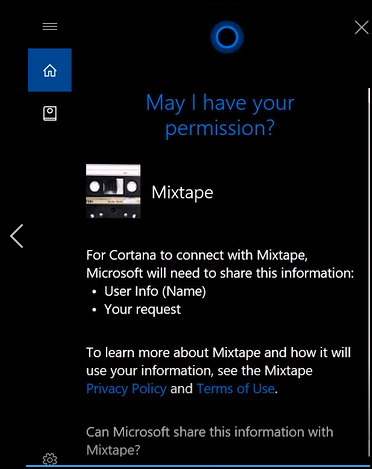
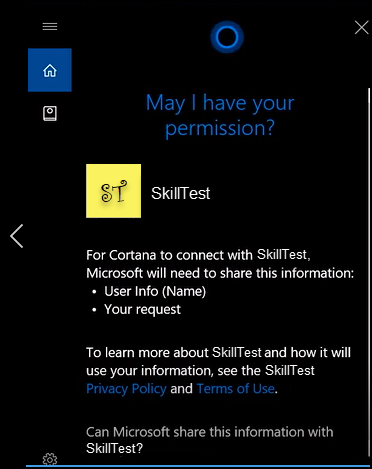
updated screenshot and text

diff --git a/docs/skills/mva52-using-profile-data.md b/docs/skills/mva52-using-profile-data.md
@@ -10,11 +10,11 @@ keywords: cortana
 
 # Using profile data in your Cortana skill
 
-As you learned in [Understanding Cortana's user profile data](./mva51-profile-data.md), Cortana's user profile contains a variety of information that you can view and use in your Cortana skill with the user's consent. In this module, you'll learn how to customize the **Mixtape** skill developed in previous modules to include profile data.
+As you learned in [Understanding Cortana's user profile data](./mva51-profile-data.md), Cortana's user profile contains a variety of information that you can view and use in your Cortana skill with the user's consent. In this module, you'll learn how to customize <!-- the **SkillTest** -->your skill <!-- developed in previous modules  -->to include profile data.
 
 For more information about user profile and contextual information, see [Get the user's profile and contextual information](./get-user-profile-context.md). 
 
-For reference information on the user profile entities you can use in code when you are developing your Cortana skill, see [Cortana user profile and contextual information reference](./user-profile-contextual-info.md).
+For reference information on the user profile entities you can use in code when you are developing your Cortana skill, see the [Cortana user profile and contextual information reference](./user-profile-contextual-info.md).
 
 ## Step 1 - Configure your skill to request user profile data
 
@@ -34,9 +34,12 @@ Select **Publish to self**. In the **User data** box, specify the user profile d
 
 ## Step 2 - Revise your skill to use profile data
 
-Now that you configured your Cortana skill to request user profile data, you can use that data to customize the skill. For example, you can personalize the greeting in the Mixtape skill to include the user's name by revising the skill's **MixtapeIntent** method as follows:
+Now that you've configured your Cortana skill to request user profile data, you can use that data to customize the skill. For example, you can personalize a greeting in <!-- the SkillTest --> your skill to include the user's name.
 
-        public async Task MixtapeIntent(IDialogContext context, LuisResult result)
+This C# code shows an example of customizing a greeting, by updating `response.Text` for a skill named SkillTest.
+
+```csharp
+        public async Task SkillTestIntent(IDialogContext context, LuisResult result)
         {
             var userInfo = ((Activity)context.Activity).Entities.FirstOrDefault(e => e.Type.Equals("UserInfo"));
             string userName;
@@ -44,15 +47,15 @@ Now that you configured your Cortana skill to request user profile data, you can
                 userName = userInfo.Properties["userName"]["GivenName"].ToString();
             else
                 userName = "Stranger";
-            
-            var response = context.MakeMessage();
-            response.Text = "Welcome to Mixtape, " + userName + "! Let's find a song to play.";
 
-            var ssml = @"<speak version=""1.0"" xmlns = ""https://www.w3.org/2001/10/synthesis"" xml:lang = ""en-US""> 
+            var response = context.MakeMessage();
+            response.Text = "Welcome to SkillTest, " + userName + "! Let's find a song to play.";
+
+            var ssml = @"<speak version=""1.0"" xmlns = ""https://www.w3.org/2001/10/synthesis"" xml:lang = ""en-US"">
                 <prosody rate=""fast"">
-                Welcome to Mixtape" + userName + @"! 
+                Welcome to SkillTest" + userName + @"!
                 <audio src=""https://myaudio/tada.mp3>""/>
-                Let's find a song to play. 
+                Let's find a song to play.
                 </prosody>
             </speak>";
 
@@ -60,19 +63,20 @@ Now that you configured your Cortana skill to request user profile data, you can
             await context.PostAsync(response);
             context.Wait(MessageReceived);
         }
+```
 
-The code adds the user's name from the **UserInfo** profile data to the Mixtape greeting.
+The code adds the user's name from the `UserInfo` profile data to the SkillTest greeting.
 
 ## Step 3 - Test the revised skill
 
 Before you can test the revised skill, you must republish it. If you are working with the Microsoft Azure App Service Editor or in Visual Studio, follow the redeployment steps in [Create your first Cortana skill](./mva22-hello-world.md) or [Building conversations](./mva32-building-conversations.md).
 
-To test your revised skill, direct Cortana to invoke the Mixtape skill using an invocation phrase related to the **Mixtape** intent. For example:
+To test your revised skill, direct Cortana to invoke the SkillTest skill using an invocation phrase related to the **SkillTest** intent. For example:
 
-*Ask Mixtape to make me a new playlist.*
+    >**User:** Ask SkillTest to make me a new playlist.
 
 Since you have configured Cortana to request user profile data, Cortana asks your consent before launching the skill. Cortana will not use information from the user profile without explicit consent.
 
 ![Ask Consent](../media/images/mva52_ask_consent.png)
 
-If you give your consent, Cortana responds by launching the Mixtape skill with a personalized greeting, using the name specified in the user profile.
+If you give your consent, Cortana responds by launching the SkillTest skill with a personalized greeting, using the name specified in the user profile.

diff --git a/docs/skills/mva61-authentication.md b/docs/skills/mva61-authentication.md
@@ -2,7 +2,7 @@
 title: Using authentication in your Cortana Skill
 description: Describes how to use authentication in your Cortana Skill.
 
-ms.date: 10/08/2018
+ms.date: 07/16/2019
 ms.topic: article
 
 keywords: cortana
@@ -10,8 +10,8 @@ keywords: cortana
 
 # Using authentication in your Cortana skill
 
-If your Cortana skill uses a service that requires authentication, you can let Cortana manage authentication by configuring the skill to use a connected service. You can specify whether to prompt the user for authentication credentials when Cortana invokes the skill. 
+If your Cortana skill uses a service that requires authentication, you can let Cortana manage authentication by configuring the skill to use a connected service. You can specify whether to prompt the user for authentication credentials when Cortana invokes the skill.
 
-Once the authentication takes place, Cortana uses an authentication token to manage authentication for the skill. Rather than prompting the user again for credentials, Cortana uses the token to authenticate the user. In this module, you'll learn how to customize the **Mixtape** skill developed in previous modules to use authentication.
+Once the authentication takes place, Cortana uses an authentication token to manage authentication for the skill. Rather than prompting the user again for credentials, Cortana uses the token to authenticate the user. <!-- In this module, you'll learn how to customize the **Mixtape** skill developed in previous modules to use authentication. -->
 
-For more about authentication, see [Adding authentication to your skill](./authentication.md).
+For details about using authentication, see [Adding authentication to your skill](./authentication.md).
